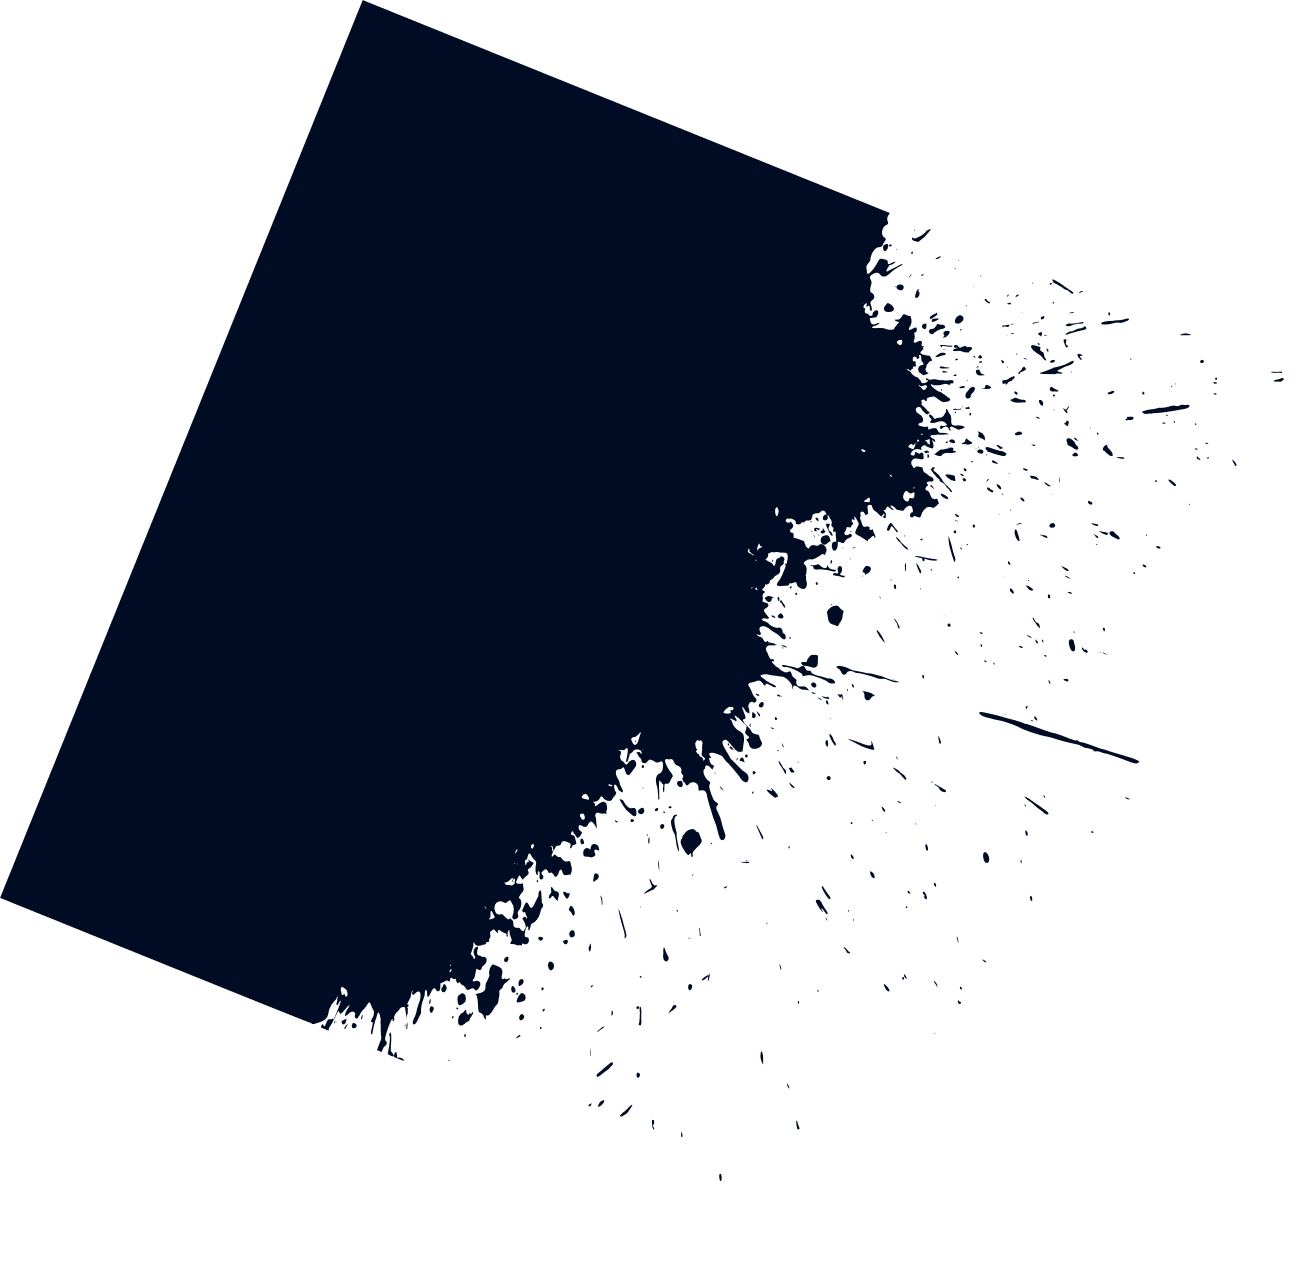
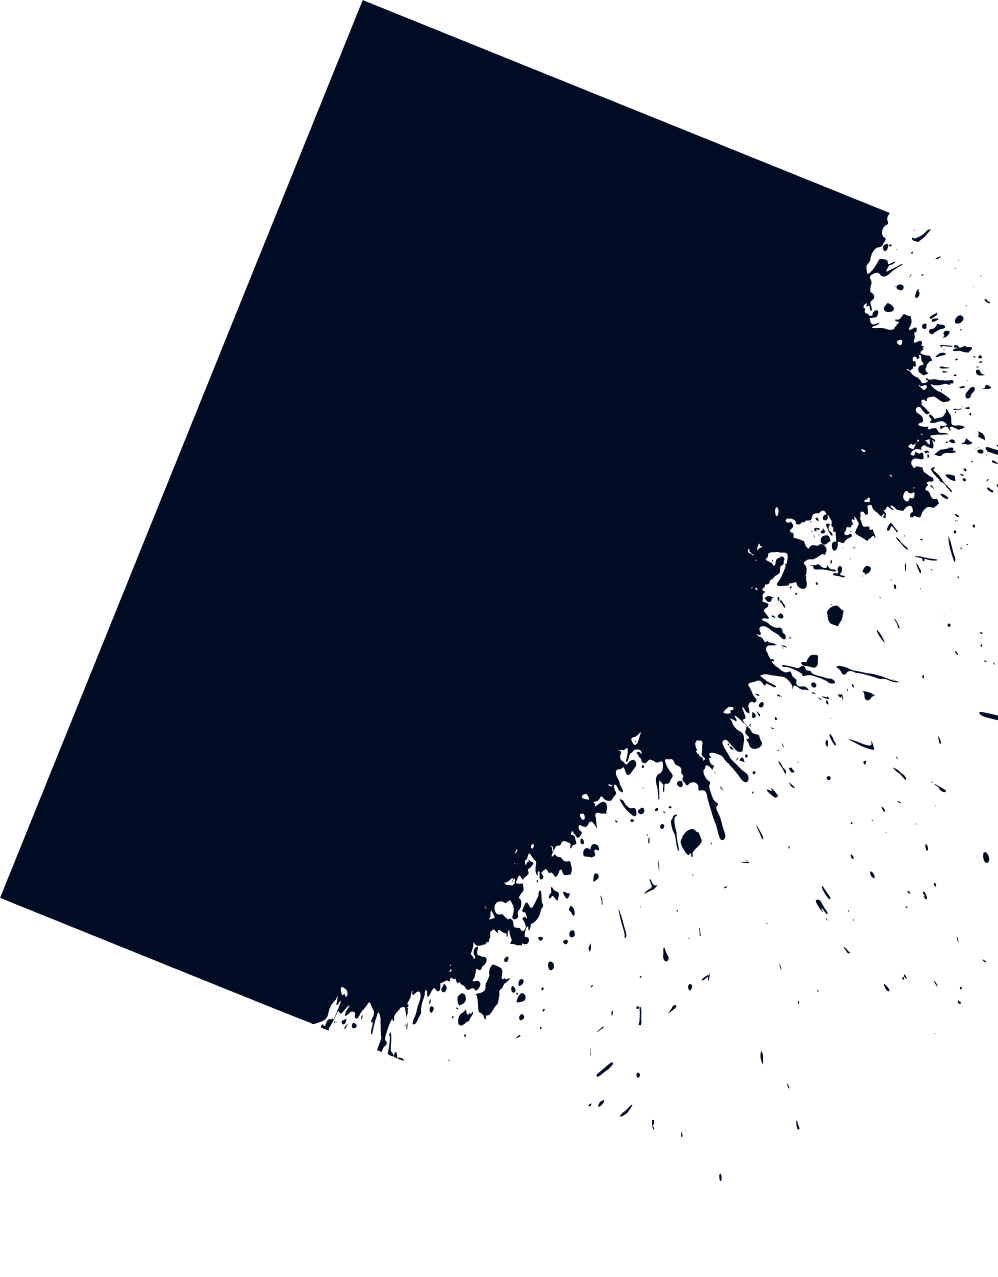
about section init

diff --git a/src/sections/About.tsx b/src/sections/About.tsx
@@ -1,19 +1,31 @@
 import React from "react";
 import bg from "../assets/bg2.png";
 import Section from "../components/Section";
+import Images from "../components/Image";
+import AboutImg from "../assets/AboutImg.png";
+import Title from "../components/Title";
+import Paragraph from "../components/Paragraph";
+import Scroller from "../components/Scroller";
 
 const About = () => {
   const style = {
     backgroundImage: `url(${bg})`,
-    backgroundPosition: "-276px -211px",
+    backgroundPosition: "-279px -344px",
+    backgroundRepeat: "no-repeat",
+    backgroundSize: "60%",
   };
 
   return (
     <Section
-      classname="flex flex-row bg-no-repeat mt-[-2px] h-[100vh]"
+      classname="flex flex-row bg-no-repeat mt-[-2px] py-5"
       style={style}
     >
-      <h1>About us</h1>
+      <Images image={AboutImg} />
+      <div className="flex flex-col w-1/2 px-20 justify-center">
+        <Title text="About Me" />
+        <Paragraph text="An inquisitive Computer Science Engineering student, skilled in leadership, seeking to leverage solid development skills with focus on collaboration, communication and passion." />
+      </div>
+      <Scroller />
     </Section>
   );
 };

diff --git a/src/index.css b/src/index.css
@@ -1,21 +1,21 @@
+@import url("https://fonts.googleapis.com/css2?family=Spartan:wght@400;600;700&display=swap");
+
 @tailwind base;
 @tailwind components;
 @tailwind utilities;
 
+@layer components {
+  .image::before {
+    background-image: url("assets/image-bg.png");
+  }
+}
+
 body {
   margin: 0;
-  font-family: -apple-system,
-    BlinkMacSystemFont, "Segoe UI",
-    "Roboto", "Oxygen", "Ubuntu",
-    "Cantarell", "Fira Sans",
-    "Droid Sans", "Helvetica Neue",
-    sans-serif;
-  -webkit-font-smoothing: antialiased;
-  -moz-osx-font-smoothing: grayscale;
+  font-family: "Spartan", sans-serif;
 }
 
 code {
-  font-family: source-code-pro, Menlo,
-    Monaco, Consolas, "Courier New",
+  font-family: source-code-pro, Menlo, Monaco, Consolas, "Courier New",
     monospace;
 }

diff --git a/src/components/Image/index.tsx b/src/components/Image/index.tsx
@@ -1,0 +1,23 @@
+import { url } from "inspector";
+import React from "react";
+import imageBg from "../../assets/image-bg.png";
+interface ImageProp {
+  image: string;
+}
+
+const Images = (image: ImageProp) => {
+  const style = { backgroundImage: `url(${imageBg})` };
+  return (
+    <div className="bg-no-repeat" style={style}>
+      <img
+        className="pl-10 pt-12"
+        src={`${image.image}`}
+        alt="img of the author"
+        width="100%"
+        height="100%"
+      />
+    </div>
+  );
+};
+
+export default Images;

diff --git a/src/components/Section/index.tsx b/src/components/Section/index.tsx
@@ -10,8 +10,10 @@ type Prop = {
 const Section = (props: Prop) => {
   console.log("props", props);
   return (
-    <section className={`${props.classname}`} style={props.style}>
-      {props.children}
+    <section className="relative h-[100vh]" style={props.style}>
+      <div className={`max-w-[1440px] px-5 my-0 mx-auto  ${props.classname}`}>
+        {props.children}
+      </div>
     </section>
   );
 };

diff --git a/src/sections/Hero.tsx b/src/sections/Hero.tsx
@@ -10,7 +10,7 @@ const Hero = () => {
         backgroundImage: `url(${hero})`,
       }}
     >
-      <div className="flex flex-col max-w-[1640px] justify-center h-full mx-auto my-0 px-[40px]">
+      <div className="flex flex-col max-w-[1440px] justify-center h-full mx-auto my-0 px-5 relative">
         {/* <img src={name} className="w-1/4" alt="hero logo" /> */}
         <HeroLogo />
       </div>

diff --git a/src/components/HeroLogo.tsx b/src/components/HeroLogo.tsx
@@ -82,7 +82,7 @@ const HeroLogo = () => {
 
       <motion.h2
         variants={h2Variants}
-        className="font-semibold text-2xl text-white py-3"
+        className="font-semibold text-2xl text-white py-3 font-Spartan"
       >
         Engineer + Front-end Developer
       </motion.h2>

diff --git a/src/components/Paragraph/index.tsx b/src/components/Paragraph/index.tsx
@@ -1,0 +1,15 @@
+import React from "react";
+
+interface TextProp {
+  text: string;
+}
+
+const Paragraph = (text: TextProp) => {
+  return (
+    <p className="font-normal text-xl leading-relaxed text-gray-800 bg-white">
+      {text.text}
+    </p>
+  );
+};
+
+export default Paragraph;

diff --git a/tailwind.config.js b/tailwind.config.js
@@ -2,6 +2,9 @@ module.exports = {
   content: ["./src/**/*.{js,jsx,ts,tsx}"],
   theme: {
     extend: {
+      fontFamily: {
+        Spartanreg: ["Spartan", "sans-serif"],
+      },
       animation: {
         scroller: " scroller 1.5s linear infinite",
       },

diff --git a/src/components/Title/index.tsx b/src/components/Title/index.tsx
@@ -1,0 +1,15 @@
+import React from "react";
+
+interface TitleProp {
+  text: string;
+}
+
+const Title = (text: TitleProp) => {
+  return (
+    <>
+      <h2 className="font-bold text-3xl text-sky-500 ">{text.text}</h2>
+    </>
+  );
+};
+
+export default Title;

diff --git a/src/components/Scroller.tsx b/src/components/Scroller.tsx
@@ -6,6 +6,7 @@ const Scroller = () => {
     hidden: { opacity: 0, y: 30 },
     show: {
       opacity: 1,
+
       y: 0,
       transition: {
         delay: 2,
